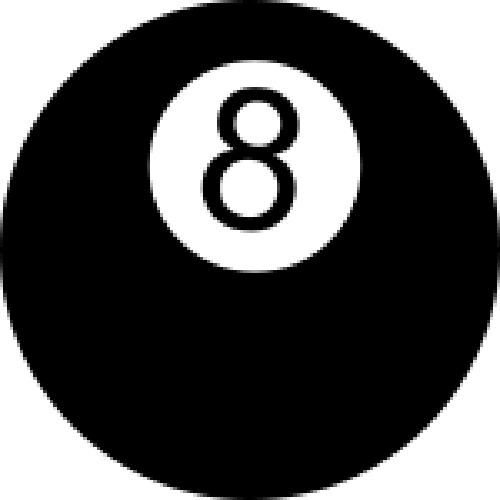
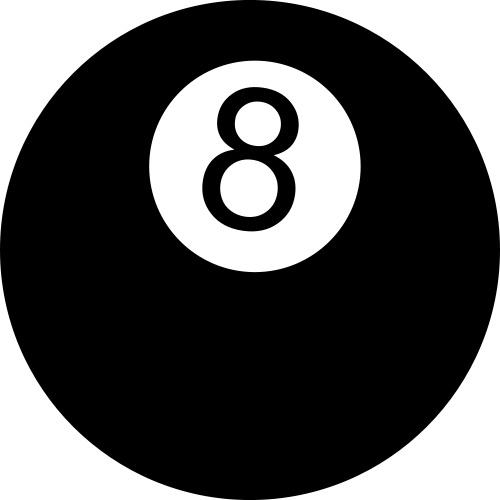
Minor updates
-Updated 8 ball picture
-Made portfolio 3x3 instead of 4x2

diff --git a/portfolio.html b/portfolio.html
@@ -38,8 +38,7 @@
 </div>
 
 <div class="box1" id="document">
-<div class="boxtext"><h1>PORTFOLIO</h1>
-
+<div class="boxtext">
 <p style="text-align: center;">This is a sample of some of the graphic and web design work I have done for clubs on my campus and political candidates and organizations around North Carolina. My clients have included Farad Ali (2017 Candidate, Mayor of Durham), the UNCG Democrats Club, Aron Johnson (First Vice Chairman, 13th Congressional District Democratic Party), and Linda Coleman (2018 Candidate, US House of Representatives District 2), among others. If you would like to enquire about commissioning graphics work from me, please feel free to send me an <a href="mailto:elijahjmears@gmail.com">email</a>.</p>
 
 	<div class="imgholder">
@@ -59,23 +58,27 @@
 		<a class="boardlink" href="img/Challahween.png" target=_blank><div class="caption">Challahween Flier</div><img class="folioimg" src="img/ChallahweenThumb.png"/></a>
 		
 	</div>
-
 	<div class="imgholder">
-
-		<a class="boardlink" href="https://www.facebook.com/AronforNC/" target=_blank><div class="caption">Aron Johnson Logo</div><img class="folioimg" src="img/aronforchair.png"/></a>
 		
-	</div><div class="imgholder">
-
+		<a class="boardlink" href="img/WomenForLinda.png" target=_blank><div class="caption">Women For Linda Graphic</div><img class="folioimg" src="img/WomenForLindaThumb.png"/></a>
+		
+	</div>
+	<div class="imgholder">
+		
 		<a class="boardlink" href="img/ali.png" target=_blank><div class="caption">Farad Ali for Mayor Graphic</div><img class="folioimg" src="img/alithumb.png"/></a>
 		
 	</div><div class="imgholder">
 
-		<a class="boardlink" href="https://www.facebook.com/PrecinctG45" target=_blank><div class="caption">Precinct G45 Logo</div><img class="folioimg" src="img/G45.png"/></a>
-		
+		<a class="boardlink" href="https://www.facebook.com/AronforNC/" target=_blank><div class="caption">Aron Johnson Logo</div><img class="folioimg" src="img/aronforchair.png"/></a>
+
 	</div><div class="imgholder">
 
 		<a class="boardlink" href="img/cdncbanner.png" target=_blank><div class="caption">College Dems of NC Cover Photo</div><img class="folioimg" src="img/cdncthumb.png"/></a>
-		
+
+	</div><div class="imgholder">
+
+			<a class="boardlink" href="https://www.facebook.com/PrecinctG45" target=_blank><div class="caption">Precinct G45 Logo</div><img class="folioimg" src="img/G45.png"/></a>
+	
 	</div>
 	<div class="showwhensmall"><p style="padding-top: 2rem; text-align: center;"><a href="https://www.facebook.com/elijahjmears" target="_blank"><img src="img/facebookicon.png"  class="socialimg"/></a>
 <a href="https://twitter.com/ElijahJMears" target="_blank"><img src="img/twittericon.png"  class="socialimg"/></a>

diff --git a/stylesheet.css b/stylesheet.css
@@ -381,7 +381,67 @@ textarea {
 }
 
 .imgholder {
-	width: 25%;
+	width: 33.33%;
+	margin: 0;
+	display: inline-block;
+	float: left;
+	position: relative;
+}
+
+.jsholder .caption {
+	position: absolute;
+	text-align: center;
+	bottom: .4rem;
+	width: 100%;
+	background: rgba(0, 0, 0, 0.5);
+}
+
+.jsholder a:link {
+	text-decoration: none;
+	color: #fff;
+	cursor: pointer;
+	text-shadow:
+	-1px -1px 0 #000,
+	1px -1px 0 #000,
+	-1px 1px 0 #000,
+	1px 1px 0 #000;
+}
+
+.jsholder a:visited {
+	text-decoration: none;
+	color: #fff;
+	cursor: pointer;
+	text-shadow:
+	-1px -1px 0 #000,
+	1px -1px 0 #000,
+	-1px 1px 0 #000,
+	1px 1px 0 #000;
+}
+
+.jsholder a:hover {
+	text-decoration: none;
+	color: #fff;
+	cursor: pointer;
+	text-shadow:
+	-1px -1px 0 #000,
+	1px -1px 0 #000,
+	-1px 1px 0 #000,
+	1px 1px 0 #000;
+}
+
+.jsholder a:active {
+	text-decoration: none;
+	color: #fff;
+	cursor: pointer;
+	text-shadow:
+	-1px -1px 0 #000,
+	1px -1px 0 #000,
+	-1px 1px 0 #000,
+	1px 1px 0 #000;
+}
+
+.jsholder {
+	width: 50%;
 	margin: 0;
 	display: inline-block;
 	float: left;
@@ -529,13 +589,23 @@ h1 {
 }
 
 .imgholder {
-	width: 50%;
+	width: 33.33%;
 	margin: 0;
 }
 
 .imgholder .caption {
 		font-size: 2.5rem;
 		}
+		
+.jsholder {
+	width: 50%;
+	margin: 0;
+}
+
+.jsholder .caption {
+		font-size: 2.5rem;
+		}
+		
 .boxtext {
 	width: auto;
 	padding-left: 3rem;

diff --git a/jstoys.html b/jstoys.html
@@ -39,15 +39,14 @@
 
 <div class="box1">
 <div class="boxtext">
-<h1>JAVASCRIPT TOYS</h1>
 
 <p>These are little toys, doodads, and utilities I come up with while learning different Javascript skills and which are here for you to play around with.</p>
 
-	<div class="imgholder">
+	<div class="jsholder" >
 
 		<a class="boardlink" href="eightball.html"><div class="caption">8-BALL</div><img class="folioimg" src="img/8ballimg.png"/></a>
 		
-	</div><div class="imgholder">
+	</div><div class="jsholder">
 
 		<a class="boardlink" href="sundial.html"><div class="caption">SUNDIAL</div><img class="folioimg" src="img/sundialimg.png"/></a>
 		
